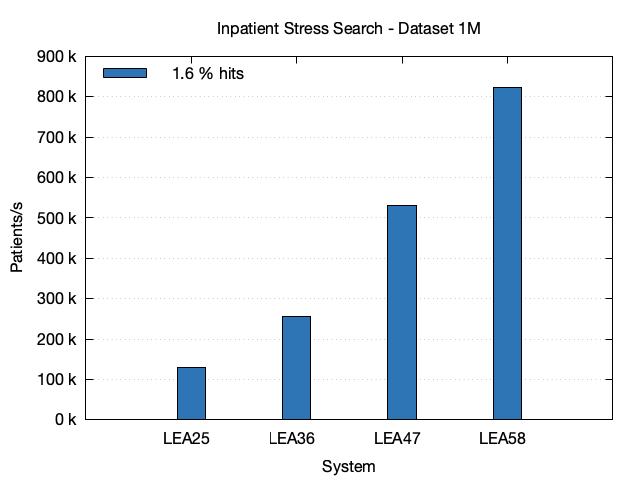
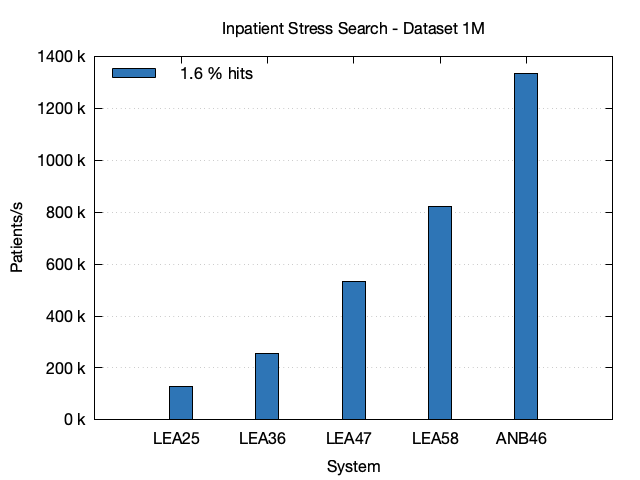
Add System A5N46 to CQL Performance Docu
The Name of the System A5N46 is build in the following way:

* A = AMD
* 5 = Zen 5
* N = Non Binary CPU/RAM
* 4 = 2^4 = 16 + Non Binary = 24 SMT Cores
* 6 = 2^6 = 64 + Non Binary = 96 GiB RAM

diff --git a/docs/performance/cql.md b/docs/performance/cql.md
@@ -8,12 +8,13 @@ For the CQL queries analyzed here, the relative performance of query evaluation 
 
 The following systems with rising resources were used for performance evaluation:
 
-| System | Provider | CPU        | Cores |     RAM |  SSD | Heap Mem ¹ | Block Cache ² | Resource Cache ³ |
-|--------|----------|------------|------:|--------:|-----:|-----------:|--------------:|-----------------:|
-| LEA25  | on-prem  | EPYC 7543P |     4 |  32 GiB | 2 TB |      8 GiB |         8 GiB |            2.5 M | 
-| LEA36  | on-prem  | EPYC 7543P |     8 |  64 GiB | 2 TB |     16 GiB |        16 GiB |              5 M | 
-| LEA47  | on-prem  | EPYC 7543P |    16 | 128 GiB | 2 TB |     32 GiB |        32 GiB |             10 M | 
-| LEA58  | on-prem  | EPYC 7543P |    32 | 256 GiB | 2 TB |     64 GiB |        64 GiB |             20 M | 
+| System | Provider | CPU         | Cores |     RAM |  SSD | Heap Mem ¹ | Block Cache ² | Resource Cache ³ |
+|--------|----------|-------------|------:|--------:|-----:|-----------:|--------------:|-----------------:|
+| LEA25  | on-prem  | EPYC 7543P  |     4 |  32 GiB | 2 TB |      8 GiB |         8 GiB |            2.5 M | 
+| LEA36  | on-prem  | EPYC 7543P  |     8 |  64 GiB | 2 TB |     16 GiB |        16 GiB |              5 M | 
+| LEA47  | on-prem  | EPYC 7543P  |    16 | 128 GiB | 2 TB |     32 GiB |        32 GiB |             10 M | 
+| LEA58  | on-prem  | EPYC 7543P  |    32 | 256 GiB | 2 TB |     64 GiB |        64 GiB |             20 M | 
+| A5N46  | on-prem  | Ryzen 9900X |    24 |  96 GiB | 2 TB |     24 GiB |        24 GiB |             10 M | 
 
 ¹ Size of the Java Heap (`JAVA_TOOL_OPTIONS`)
 ² Size of the block cache (`DB_BLOCK_CACHE_SIZE`)
@@ -109,6 +110,9 @@ The third bar chart shows the results for the 1M dataset. For the two bigger sys
 | 1M      | LEA58  | 17861-6 |   25 k |     0.52 |  0.012 | 1.930 M |
 | 1M      | LEA58  | 8310-5  |  603 k |     0.66 |  0.007 | 1.505 M | 
 | 1M      | LEA58  | 72514-3 |  998 k |     0.78 |  0.019 | 1.287 M |
+| 1M      | A5N46  | 17861-6 |   25 k |     0.23 |  0.009 | 4.353 M |
+| 1M      | A5N46  | 8310-5  |  603 k |     0.38 |  0.003 | 2.660 M | 
+| 1M      | A5N46  | 72514-3 |  998 k |     1.61 |  0.006 | 622.8 k |
 
 ### Example CQL Query
 
@@ -175,6 +179,9 @@ The second chart shows the results for the 1M dataset. Here the performance of t
 | 1M      | LEA58  | 29463-7 | 13.6 kg |   99 k |     0.59 |  0.007 | 1.709 M |  
 | 1M      | LEA58  | 29463-7 | 75.3 kg |  500 k |     1.01 |  0.013 | 993.3 k | 
 | 1M      | LEA58  | 29463-7 |  185 kg |  998 k |     1.42 |  0.026 | 702.4 k |
+| 1M      | A5N46  | 29463-7 | 13.6 kg |   99 k |     0.28 |  0.007 | 3.584 M | 
+| 1M      | A5N46  | 29463-7 | 75.3 kg |  500 k |     0.46 |  0.032 | 2.160 M | 
+| 1M      | A5N46  | 29463-7 |  185 kg |  998 k |     1.66 |  0.002 | 601.8 k |
 
 ### CQL Query
 
@@ -244,6 +251,8 @@ The third chart shows the results for the 1M dataset. As with the Code Value Sea
 | 1M      | LEA47  |  954 k |     0.97 |  0.016 | 1.029 M |
 | 1M      | LEA58  |    4 k |     0.56 |  0.013 | 1.800 M |
 | 1M      | LEA58  |  954 k |     0.84 |  0.007 | 1.191 M |
+| 1M      | A5N46  |    4 k |     0.25 |  0.010 | 4.001 M |
+| 1M      | A5N46  |  954 k |     0.46 |  0.002 | 2.181 M |
 
 ### CQL Query Frequent
 
@@ -303,6 +312,8 @@ cql/search.sh condition-ten-rare
 
 ## All Code Search
 
+![](cql/all-code-search-1M.png)
+
 ### Data
 
 | Dataset | System | # Hits | Time (s) | StdDev |  Pat./s |
@@ -319,6 +330,7 @@ cql/search.sh condition-ten-rare
 | 1M      | LEA36  |  995 k |     5.96 |  0.015 | 167.7 k |
 | 1M      | LEA47  |  995 k |     1.05 |  0.008 | 952.9 k |
 | 1M      | LEA58  |  995 k |     0.86 |  0.006 | 1.164 M |
+| 1M      | A5N46  |  995 k |     0.48 |  0.002 | 2.071 M |
 
 ### CQL Query
 
@@ -327,6 +339,8 @@ cql/search.sh condition-all
 ```
 
 ## Inpatient Stress Search
+
+![](cql/inpatient-stress-search-1M.png)
 
 ### Data
 
@@ -344,6 +358,7 @@ cql/search.sh condition-all
 | 1M      | LEA36  |   16 k |     3.90 |  0.041 | 256.7 k |
 | 1M      | LEA47  |   16 k |     1.88 |  0.025 | 531.2 k |
 | 1M      | LEA58  |   16 k |     1.21 |  0.014 | 823.8 k |
+| 1M      | A5N46  |   16 k |     0.75 |  0.058 | 1.333 M |
 
 ### CQL Query
 
@@ -409,6 +424,13 @@ cql/search.sh medication-7
 |---------|--------|-------:|---------:|-------:|-------:|
 | 100k    | LEA58  |  5.2 M |    12.79 |  0.325 |  7.8 k |
 | 1M      | LEA58  | 52.3 M |   399.64 | 11.966 |  2.5 k |
+| 1M      | A5N46  | 52.3 M |   372.40 |  1.350 |  2.7 k |
+
+### CQL Queries
+
+```sh
+cql/search.sh stratifier-condition-code
+```
 
 ## Laboratory Observation Code Stratification
 
@@ -417,5 +439,6 @@ cql/search.sh medication-7
 | Dataset | System | # Hits | Time (s) | StdDev | Pat./s |
 |---------|--------|-------:|---------:|-------:|-------:|
 | 100k    | LEA58  | 37.8 M |   280.40 |  3.026 |      0 |
+| 1M      | A5N46  |        |  2689.40 |        |      0 |
 
 [1]: <https://github.com/samply/blazectl>
